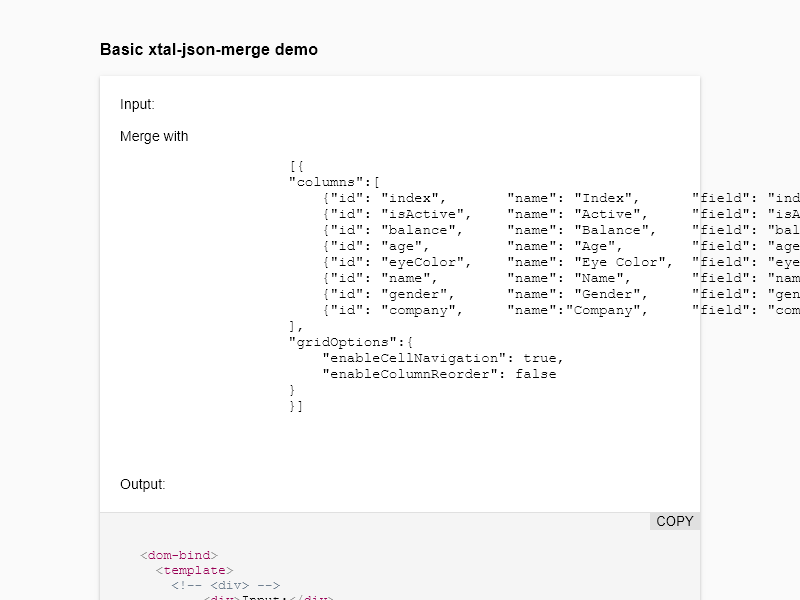
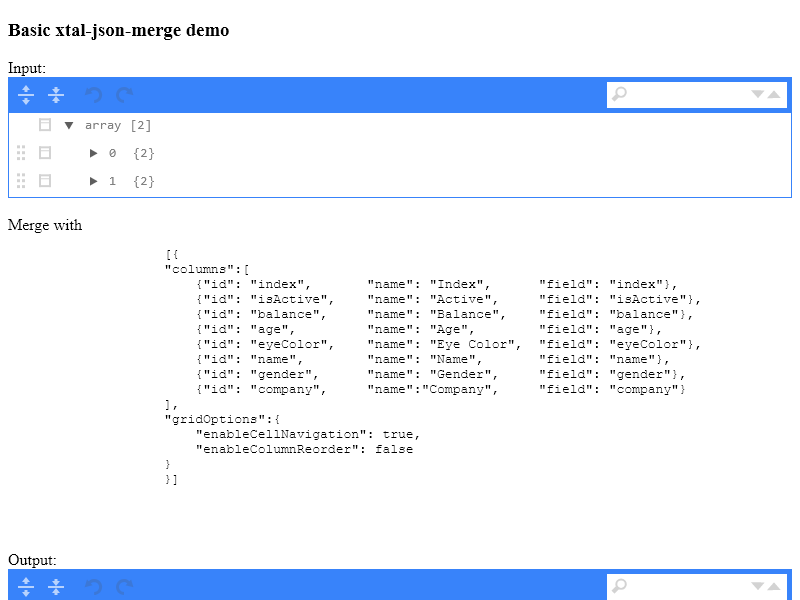
...

diff --git a/demo/dev.html b/demo/dev.html
@@ -6,38 +6,30 @@
   <meta name="viewport" content="width=device-width, minimum-scale=1, initial-scale=1, user-scalable=yes">
 
   <title>xtal-json-merge demo</title>
-
-  <script src="../node_modules/@webcomponents/webcomponentsjs/webcomponents-loader.js"></script>
+  <script type="module" src="https://unpkg.com/templ-mount@0.0.37/templ-mount.js?module"></script>
+  <template data-activate ua="HeadlessChrome">
+    <script src="../p-d.p-d-x.p-u.p-destal.js"></script>
+  </template>
+  <template data-activate ua="HeadlessChrome" data-exclude>
+    <script src="../node_modules/@webcomponents/webcomponentsjs/webcomponents-loader.js"></script>
+    <script type="module" src="../p-d.js"></script>
+    <script type="module" src="../p-d-x.js"></script>
+    <script type="module" src="../p-destal.js"></script>
+  </template>
   <script async src="https://unpkg.com/xtal-json-editor@0.0.19/xtal-json-editor.js"></script>
   <script type="module" src="https://unpkg.com/xtal-json-merge@0.2.19/xtal-insert-json.js?module"></script>
-  <script type="module" src="../p-d.js"></script>
-  <script type="module" src="../p-d-x.js"></script>
-  <script type="module" src="../p-destal.js"></script>
-
-  <script type="module" crossorigin>
-    import "https://unpkg.com/@polymer/iron-demo-helpers@3.0.0-pre.21/demo-pages-shared-styles.js?module";
-    import "https://unpkg.com/@polymer/iron-demo-helpers@3.0.0-pre.21/demo-snippet.js?module";
-    import "https://unpkg.com/@polymer/polymer@3.0.5/lib/elements/dom-bind.js?module";
-  </script>
-
-  <custom-style>
-    <style is="custom-style" include="demo-pages-shared-styles">
-    </style>
-  </custom-style>
 </head>
 
 <body>
+  <templ-mount></templ-mount>
   <p-destal on="[a]" to="{a:target.a}"></p-destal>
   <div class="vertical-section-container centered">
     <h3>Basic xtal-json-merge demo</h3>
-    <demo-snippet>
-      <template>
-        <dom-bind>
-          <template>
-            <!-- <div> -->
-                <div>Input:</div>
-                <xtal-insert-json input="[]">
-                <script type="application/json">
+
+    <!-- <div> -->
+    <div>Input:</div>
+    <xtal-insert-json input="[]">
+      <script type="application/json">
                   [
                     [
                         {"name": "Harry Potter", "age":"13"},
@@ -45,18 +37,18 @@
                     ]
                   ]
                     </script>
-                </xtal-insert-json>
-                <p-d-x to="#firstEditor{input:target.mergedProp};#insertData{input:target.mergedProp}" on="merged-prop-changed"></p-d-x>
-                <script type="module ish">
+    </xtal-insert-json>
+    <p-d-x to="#firstEditor{input:target.mergedProp};#insertData{input:target.mergedProp}" on="merged-prop-changed"></p-d-x>
+    <script type="module ish">
                   (
                     {testFn: n => n+1}
                   )
                 </script>
-                <p-d to="{testFunction:testFn}" on="eval"></p-d>
-                <xtal-json-editor id="firstEditor" options="{}"></xtal-json-editor>
-                <br>
-                <div>Merge with</div>
-                <pre>
+    <p-d to="{testFunction:testFn}" on="eval"></p-d>
+    <xtal-json-editor id="firstEditor" options="{}"></xtal-json-editor>
+    <br>
+    <div>Merge with</div>
+    <pre>
                     [{
                     "columns":[
                         {"id": "index",       "name": "Index",      "field": "index"},
@@ -74,9 +66,9 @@
                     }
                     }]              
                 </pre>
-                <br>
-                <xtal-insert-json disabled id="insertData" with-path="data" hidden>
-                <script type="application/json">
+    <br>
+    <xtal-insert-json disabled id="insertData" with-path="data" hidden>
+      <script type="application/json">
                     [{
                     "columns":[
                         {"id": "index",       "name": "Index",      "field": "index"},
@@ -94,16 +86,13 @@
                     }
                     }]
                 </script>
-                </xtal-insert-json>
-                <p-d to="xtal-json-editor{input:detail.value}" on="merged-prop-changed"></p-d>
-                <br>
-                <div>Output:</div>
-                <xtal-json-editor options="{}"></xtal-json-editor>
-            <!-- </div> -->
-          </template>
-        </dom-bind>
-      </template>
-    </demo-snippet>
+    </xtal-insert-json>
+    <p-d to="xtal-json-editor{input:detail.value}" on="merged-prop-changed"></p-d>
+    <br>
+    <div>Output:</div>
+    <xtal-json-editor options="{}"></xtal-json-editor>
+    <!-- </div> -->
+
   </div>
 </body>
 

diff --git a/test/p-d-tests.js b/test/p-d-tests.js
@@ -1,4 +1,3 @@
-"use strict";
 var __awaiter = (this && this.__awaiter) || function (thisArg, _arguments, P, generator) {
     return new (P || (P = Promise))(function (resolve, reject) {
         function fulfilled(value) { try { step(generator.next(value)); } catch (e) { reject(e); } }
@@ -17,6 +16,7 @@ const path = require('path');
         args: ['--allow-file-access-from-files']
     });
     const page = yield browser.newPage();
+    page.on('console', (msg) => console.log('PAGE LOG:', msg.text()));
     const devFile = path.resolve(__dirname, '../demo/dev.html');
     yield page.goto(devFile);
     yield page.screenshot({ path: 'example.png' });

diff --git a/test/p-d-tests.ts b/test/p-d-tests.ts
@@ -1,3 +1,5 @@
+import { ConsoleMessage } from "puppeteer";
+
 const test = require('tape');
 const puppeteer = require('puppeteer');
 const path = require('path');
@@ -9,6 +11,7 @@ const path = require('path');
         args:['--allow-file-access-from-files']
     });
     const page = await browser.newPage();
+    page.on('console', (msg: ConsoleMessage) => console.log('PAGE LOG:', msg.text()));
     const devFile = path.resolve(__dirname, '../demo/dev.html');
     await page.goto(devFile);
     await page.screenshot({path: 'example.png'});

diff --git a/demo/index.html b/demo/index.html
@@ -12,7 +12,9 @@
   <script async src="https://unpkg.com/xtal-json-merge@0.2.23/json-merge.js"></script>
   <script async type="module" src="https://unpkg.com/p-d.p-u@0.0.10/p-d.p-u.js?module"></script>
 
-
+  <script>
+      console.log(navigator.userAgent);
+    </script>
 
   <custom-style>
     <style is="custom-style" include="demo-pages-shared-styles">
